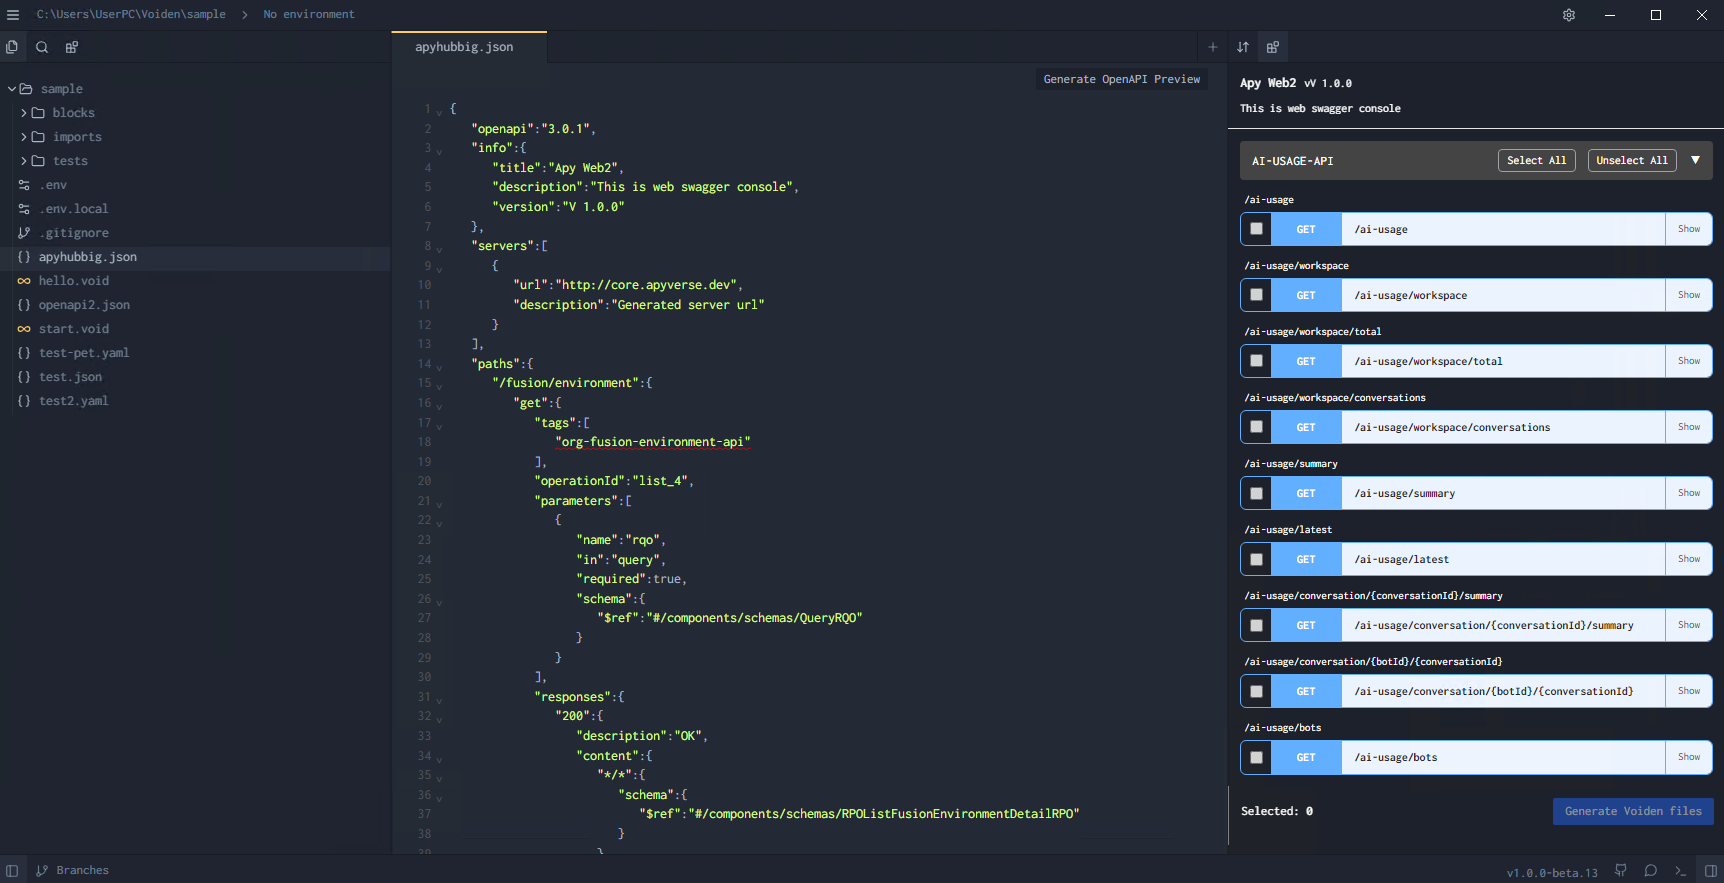
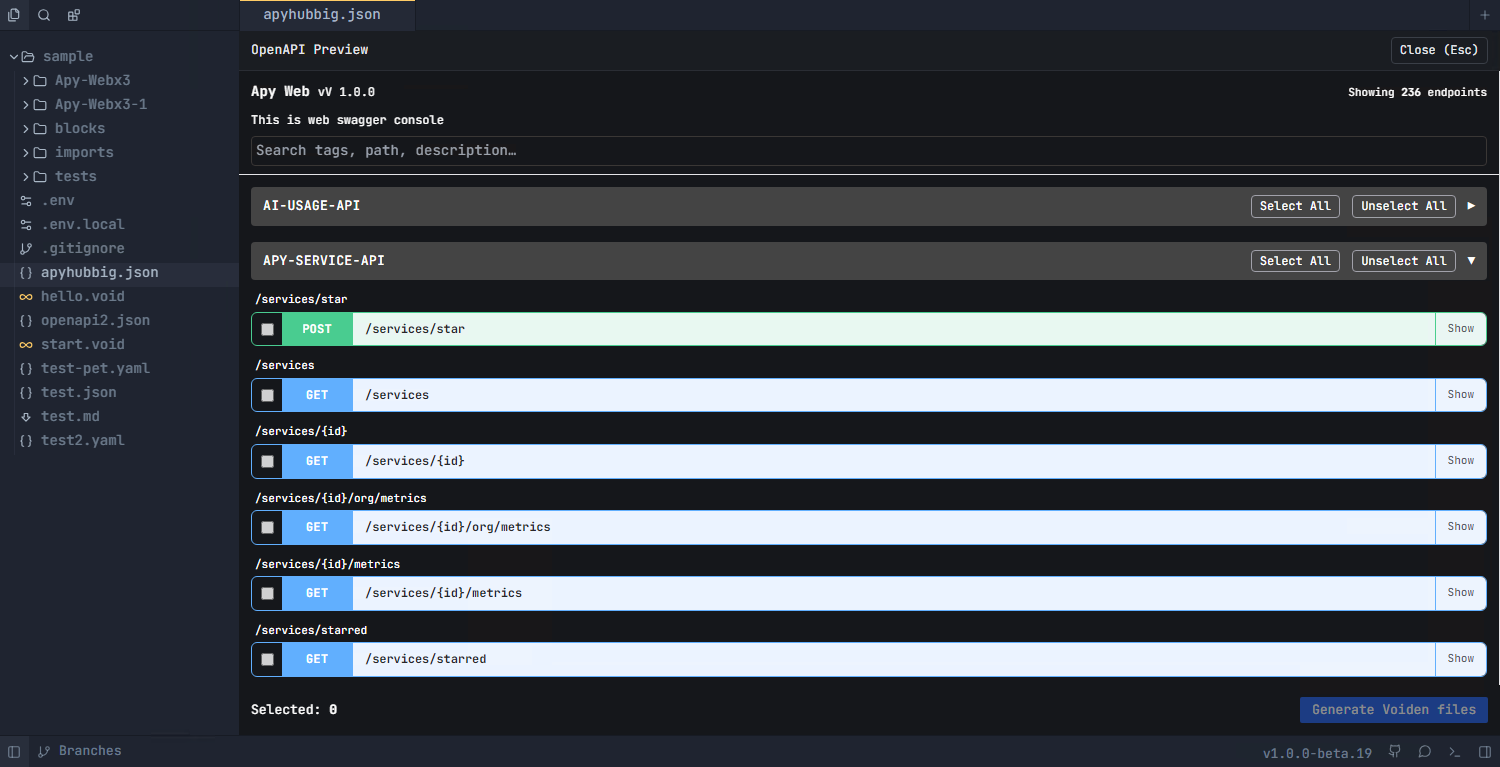
update docs and images

diff --git a/docs/voiden-core-plugins/openapi-plugin-intro.md b/docs/voiden-core-plugins/openapi-plugin-intro.md
@@ -9,89 +9,94 @@ sidebar_position: 1
 
 The **OpenAPI Import** plugin (part of the **Voiden Core Plugins Pack**) lets you import your existing API definitions directly from an **OpenAPI** specification file — either JSON or YAML format.  
 
-Easily browse, preview, and generate ready-to-use Voiden request files from your OpenAPI documentation.
+Easily browse, search, preview, and generate ready-to-use Voiden request files from your OpenAPI documentation.
 
 ---
 
-### 🧩 How It Works
+## 🧩 How It Works
 
 1. Open any **OpenAPI** file (`.json` or `.yaml`) inside Voiden.  
-2. Once loaded, a **“Generate OpenAPI Preview”** button appears at the top of the editor.  
-3. Click the button to open a **right-side preview panel** — a mini Swagger-like interface showing all endpoints grouped by **tags**.
+2. Once loaded, an **“OpenAPI Preview”** button appears at the top of the editor.  
+3. Click the button to open a **preview view in the current tab**, showing all endpoints grouped by **tags**.  
+4. You can click **Close** or press **Esc** anytime to exit the preview and return to your OpenAPI file content.
 
 ---
 
-### 🧭 OpenAPI Preview Panel
+## 🧭 OpenAPI Preview View
 
-The preview panel displays your API endpoints in an organized, interactive view:
+The preview displays your API endpoints in an organized, interactive view.
 
+### Features
 - ✅ **Selectable Requests** — Use checkboxes to choose which endpoints to include in your Voiden project.  
 - 🏷 **Grouped by Tags** — Endpoints are automatically grouped by their OpenAPI tags.  
 - 🔍 **Expandable Details** — Click **Show** on any request to view:
-  - Request **parameters**, **examples**, and **schemas**  
-  - Response details for each **status code**  
-  - Example responses and schema definitions (based on data in the original OpenAPI file)
+  - Request parameters, examples, and schemas  
+  - Response details for each status code  
+  - Example responses and schema definitions (based on the original OpenAPI file)
+- 🔎 **Search & Filter** — A search bar at the top lets you quickly filter endpoints by name, method, or tag. This makes it easy to find specific APIs in large collections.
 
 You can also:
-- **Select All** requests within a single tag.
+- **Select All** requests within a single tag.  
 - View endpoints by method type (`GET`, `POST`, `PUT`, `DELETE`, `PATCH`, etc.).
 
 ![Alt text](/img/voiden-plugins/openapi-plugin.png)
 
 ---
 
-### ⚙ Generating Voiden Requests
+## ⚙ Generating Voiden Requests
 
 After selecting the desired endpoints:
 
-1. Click the **Generate** button at the bottom of the preview panel.  
-2. Voiden automatically creates a new folder in your workspace:
+1. Click the **Generate** button at the bottom of the preview view.  
+2. Voiden automatically creates a new folder in your workspace named after your **collection name** (from the OpenAPI file).  
 
-```
-openapi-import/
-```
-
+   Example: A collection named **Pet Store** will create a folder named **pet-store/**.  
 3. Inside that folder:
-- Each **tag** becomes its own subfolder.
-- Each endpoint within that tag becomes an individual `.void` request file.
+   - Each **tag** becomes its own subfolder.  
+   - Each endpoint within that tag becomes an individual `.void` request file.
 
-For example:
+If a folder with the same name already exists, Voiden will display a popup asking whether you want to:
+- **Overwrite** the existing folder (replace all existing files), or  
+- **Create a New Folder**, which generates a new folder with the exported files.
 
 ![Alt text](/img/voiden-plugins/openapi-plugin2.png)
 
 ---
 
-### 🚀 Using the Generated Requests
+## 🚀 Using the Generated Requests
 
 Each generated `.void` file represents a complete Voiden request, pre-filled with:
-- Method (`GET`, `POST`, etc.)
-- Path and parameters
+- Method (`GET`, `POST`, etc.)  
+- Path and parameters  
 - Request body and example data (if defined in the OpenAPI spec)
 
 You can open any `.void` file directly and start testing your API instantly inside Voiden — no manual setup required.
 
-
 ![Alt text](/img/voiden-plugins/openapi-plugin3.png)
-
 
 ---
 
-### 💡 Why Use OpenAPI Import?
+## 💡 Why Use OpenAPI Import?
 
 - **Faster onboarding** — Import full API collections in seconds  
 - **Consistent structure** — Automatically organized by tags  
-- **Interactive preview** — Inspect parameters, schemas, and responses before generating  
+- **Searchable preview** — Instantly filter endpoints by name or method  
+- **Interactive details** — Inspect parameters, schemas, and responses before generating  
 - **Editable requests** — All generated `.void` files remain fully customizable
 
 ---
 
-### Example Workflow
+## Example Workflow
 
 1. Import `openapi.yaml`  
-2. Click **Generate OpenAPI Preview**  
-3. Select endpoints under the `users` and `auth` tags  
-4. Click **Generate**  
-5. Explore and test requests under the `openapi-import` folder  
+2. Click **OpenAPI Preview**  
+3. Use the **search bar** to filter endpoints (for example, type “auth”)  
+4. Select desired endpoints under the `users` and `auth` tags  
+5. Click **Generate**  
+6. Explore and test requests under the newly created **collection-named folder** (for example, `pet-store/`)  
+
+If a folder with the same name already exists, choose between **Overwrite** or **New Folder** in the popup prompt.  
+To return to your OpenAPI file, click **Close** or press **Esc** from the preview view.
 
 ---
 
